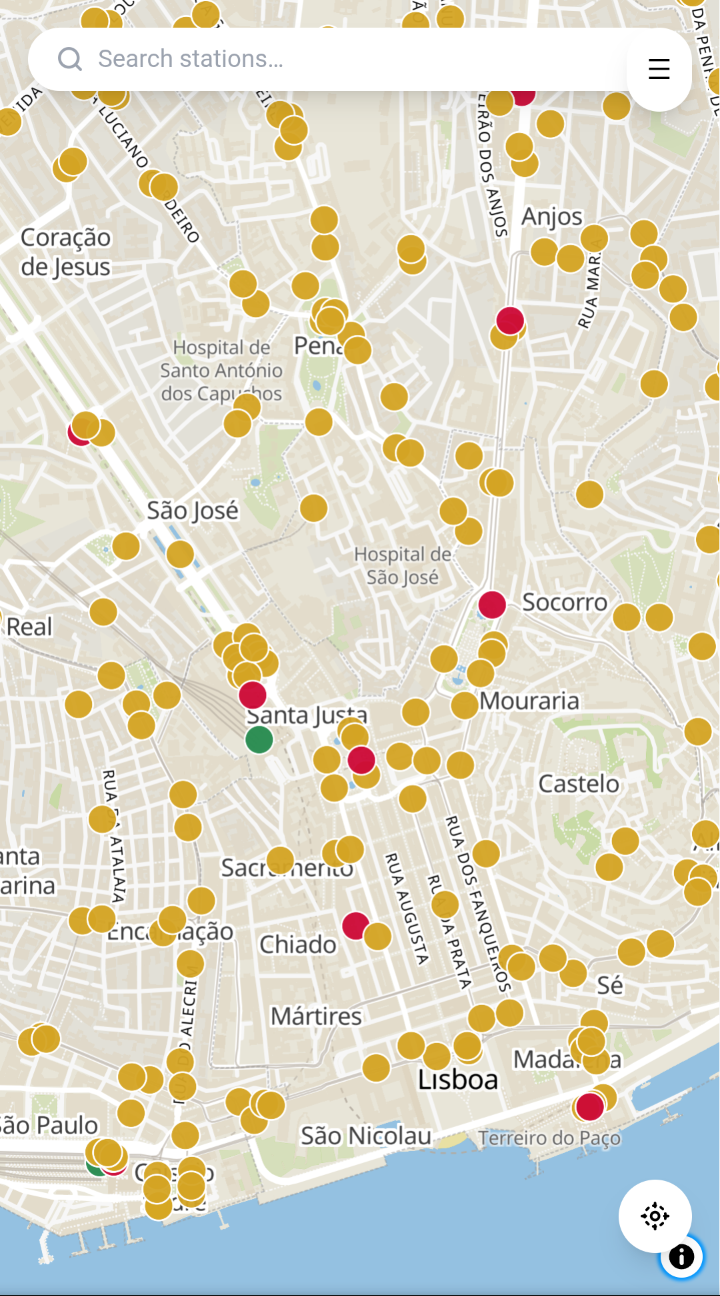
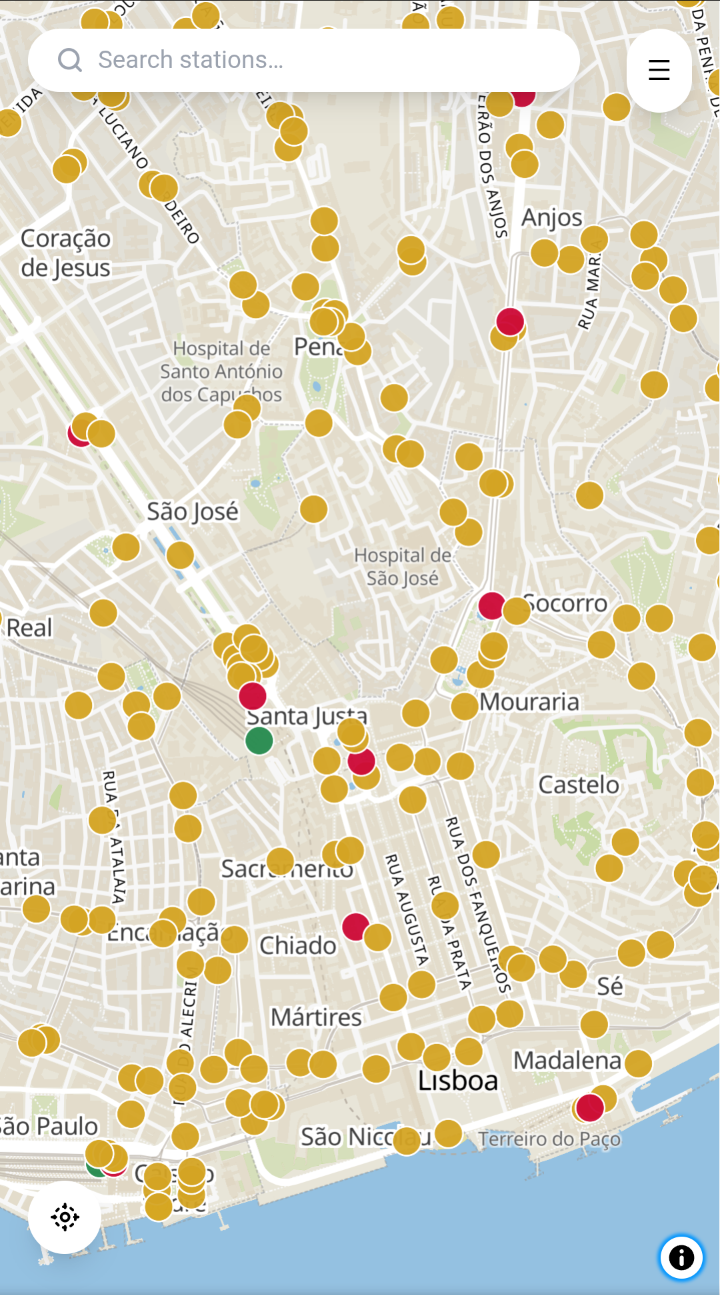
modified README

diff --git a/README.md b/README.md
@@ -1,7 +1,13 @@
 # PTRANSIT 🚌🚇
 
 
-<p align="center">
+| Map view on start | Search for stops | Depatures for a stop |
+|-------|----|-----|
+|![](/assets/images/1.png) |![](/assets/images/3.png) | ![](/assets/images/2.png) |
+
+
+
+<!-- <p align="center">
   <img src="assets/images/1.png" width="33%" />
   <img src="assets/images/2.png" width="33%" />
   <img src="assets/images/3.png" width="33%" />
@@ -9,7 +15,7 @@
 
 <p align="center">
   <em>Map view on start · Search for stops · Departures for a stop</em>
-</p>
+</p> -->
 
 <p align="center">
   <a href="#self-hosted-deployment">Self-hosted deployment</a> · <a href="#currently-supported-operators">Currently supported operators</a> · <a href="#roadmap">Roadmap</a> · <a href="#disclaimer">Disclaimer</a>
@@ -24,7 +30,7 @@ The remainder operators either use internally designed APIs (Metro de Lisboa, CP
 
 
 The project is made up of:
-- A unified API that provides schedules and real-time updates for most public transit modes in the Lisbon metropolitan area. Built using TypeScript, Node.js and Express. [README](server/README.md)
+- A unified API that provides schedules and real-time updates for most public transit modes in the Lisbon metropolitan area. Built using TypeScript, Node.js and Express. 
 - A web application centred around a map view that allows users to view schedules and real-time updates for public transit in Lisbon. Built using React, TypeScript and maplibre
 - A tile server (maptiler) that provides the map tiles used in the web application. 
 - A PostgreSQL database instance that stores the static GTFS data (stops, lines, schedules, etc.) from the operators
@@ -43,6 +49,16 @@ In order to have departures for Metro de Lisboa working you will need to obtain 
 
 When the frontend is built the web application will try to reach the API and the tile server at localhost:<service_port>. In order to access the web application from another device you will need to set the environment variables in [frontend/.env](frontend/.env) to the IP address or the hostname of the machine running those services.
 
+## Web application
+Map based application that lays out the stops using a colour coding scheme to indicate the stop's operator.
+
+Allows user to search for stops, showing the lines that pass through the stop, simplifying the process of finding the right stop (as many stops in Lisbon have very similar names). Stop listings also have the operator logo before it, helping to address the issue of multiple operators having stops with the same name.
+
+Clicking on a stop, whether on the map or in the search results, shows upcoming departures, including real-time updates when available.
+
+For each departure, the application shows the scheduled departure time, or the real-time updated departure time, if available. When possible, we are able to report whether the vehicle has passed the stop (depature time is stricken through), whether the trip is cancelled (red icon ), the platform where the vehicle is expected to arrive (in case of trains), and the vehicle's expected occupancy level.
+
+Since the web app uses React Router, users are able to share links to specific stops or save them as bookmarks for quicker access.
 
 
 
@@ -71,8 +87,6 @@ When the frontend is built the web application will try to reach the API and the
 - [ ] Routing - allowing users to plan trips from point A to point B, using the public transit network. The routing will take into account the real-time information available, allowing users to plan their trips more accurately.
 
 ## Disclaimer 
-I'm not responsible for any information provided by the operators, and I cannot guarantee that the information is accurate or up-to-date. I created this project for personal use (no i don't want to install 10 apps for 10 different operators, and don't want to pay for a transit app subscription, something that should be free and provided by the operators themselves). I decided to make it public in case it is useful to anyone else.
-
-
+I'm not responsible for any information provided by the operators, and I cannot guarantee that the information is accurate or up-to-date. 
 
 
